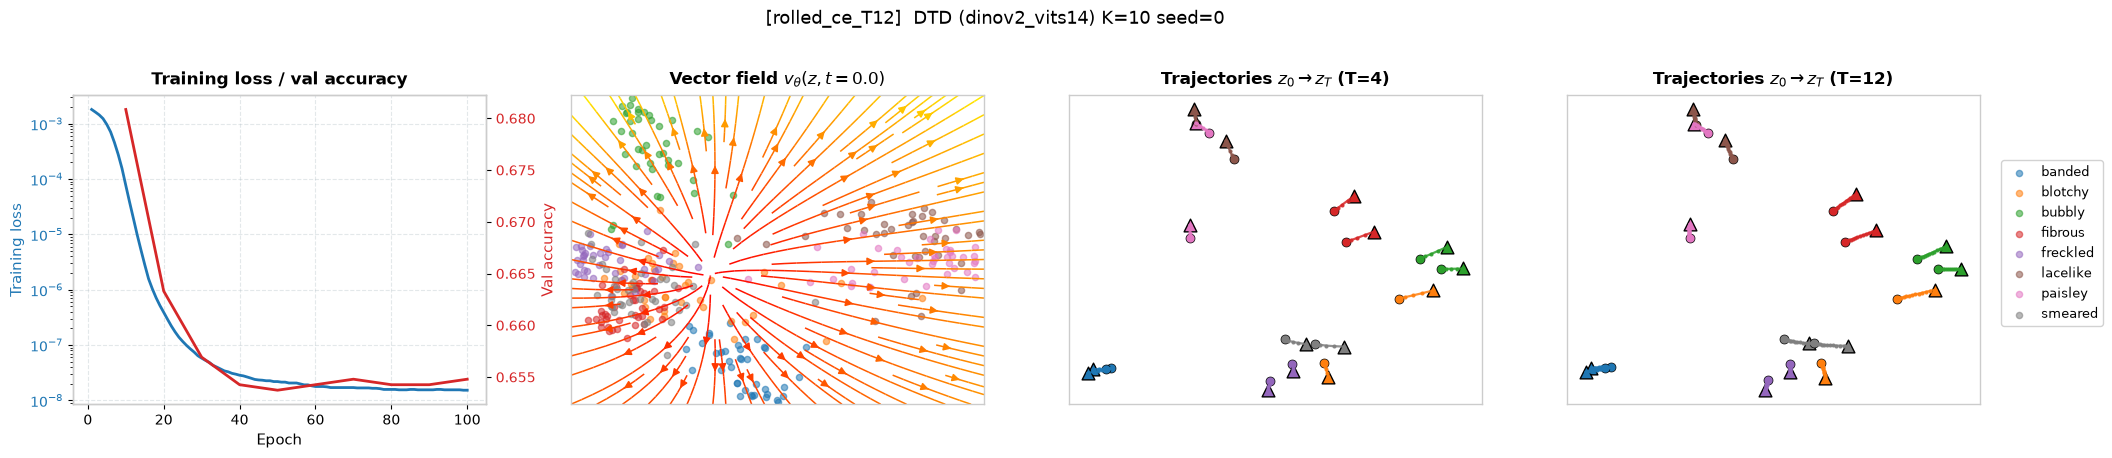
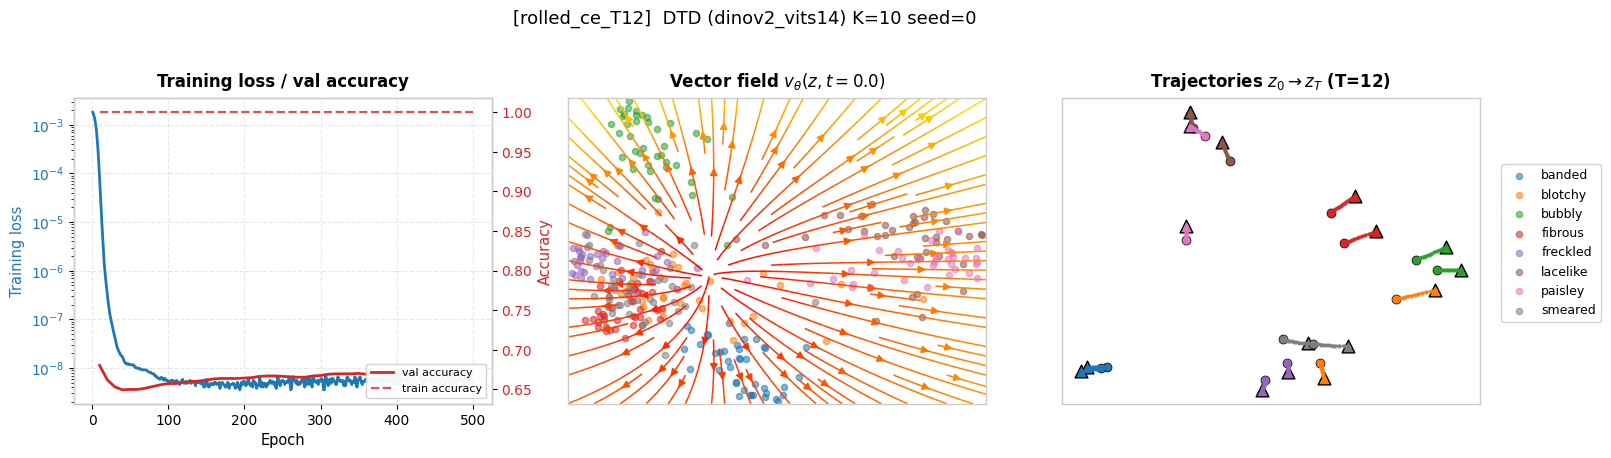
bug fixes and update notebook after first run

diff --git a/src/fmlayer/train/diagnostics.py b/src/fmlayer/train/diagnostics.py
@@ -1,11 +1,16 @@
+import math
 from pathlib import Path
 
 import pandas as pd
 import torch
 from torch import Tensor, nn
 
+from src.fmlayer.data.fewshot import load_train_subset
+from src.fmlayer.data.specs import get_spec
+from src.fmlayer.encoders.base import default_device
 from src.fmlayer.features.cache import load_split
 from src.fmlayer.models.flow_ode import transport
+from src.fmlayer.train.probes import get_probe
 from src.fmlayer.train.train_linear import to_tensors
 
 EPSILON = 1e-8
@@ -119,3 +124,117 @@ def print_diagnostics(frame: pd.DataFrame) -> None:
         "flip%  = share of items whose predicted label changed\n"
         "fixed  = wrong -> right,  broken = right -> wrong"
     )
+
+
+def signal_diagnostics(
+    encoder: str,
+    dataset: str,
+    k: int | str = 10,
+    seed: int = 0,
+    noise_levels: tuple[float, ...] = (0.0, 0.15, 0.3, 0.5, 1.0),
+    target_lr: float = 0.1,
+    feature_root: Path | None = None,
+    subset_root: Path | None = None,
+    results_root: Path | None = None,
+    device: torch.device | None = None,
+) -> pd.DataFrame:
+    """Measure how much training signal the frozen classifier can actually supply.
+
+    Both Stage 3 strategies derive everything they learn from the gradient of the
+    classification loss with respect to the features. If the frozen probe has memorised its
+    K-shot training subset, that gradient is ~0 on exactly the points the flow trains on,
+    and a field initialised at the identity has nothing to move towards. This quantifies
+    that, on clean sources and on increasingly perturbed ones.
+
+    Args:
+        encoder: Encoder key.
+        dataset: Dataset key.
+        k: Shots per class, or ``"full"``.
+        seed: Run seed.
+        noise_levels: Source perturbations to probe, as fractions of the mean feature norm.
+        target_lr: The guided step size, used to report how far a target would actually move.
+        feature_root: Feature cache directory.
+        subset_root: Subset index directory.
+        results_root: Results directory holding the probe cache.
+        device: Device to compute on.
+
+    Returns:
+        One row per noise level: accuracy and loss of the probe on the sources, the mean
+        per-sample gradient norm, and the relative displacement one guided step would make.
+    """
+    device = device if device is not None else default_device()
+    num_classes = get_spec(dataset).num_classes
+
+    train_features, train_labels, _ = load_train_subset(
+        encoder, dataset, k, seed, feature_root, subset_root
+    )
+    val_features, val_labels, _ = load_split(encoder, dataset, "val", feature_root)
+    train_x, train_y = to_tensors(train_features, train_labels, device)
+    val_x, val_y = to_tensors(val_features, val_labels, device)
+
+    probe = get_probe(
+        encoder, dataset, k, seed, train_x, train_y, val_x, val_y,
+        num_classes, device, results_root,
+    )
+    probe.eval()
+
+    mean_norm = train_x.norm(p=2, dim=1).mean()
+    generator = torch.Generator(device="cpu").manual_seed(seed)
+    rows = []
+
+    for sigma in noise_levels:
+        source = train_x
+        if sigma > 0:
+            noise = torch.randn(train_x.shape, generator=generator).to(device)
+            source = train_x + noise * (sigma * mean_norm / math.sqrt(train_x.shape[1]))
+
+        source = source.detach().requires_grad_(True)
+        logits = probe(source)
+        # Summed, so each row of the gradient is that sample's own dCE_i/dz_i.
+        loss = nn.functional.cross_entropy(logits, train_y, reduction="sum")
+        gradient = torch.autograd.grad(loss, source)[0]
+
+        with torch.no_grad():
+            correct = (logits.argmax(dim=1) == train_y).float().mean()
+            per_sample_loss = loss / len(train_y)
+            gradient_norm = gradient.norm(dim=1)
+            step_fraction = target_lr * gradient_norm / source.norm(dim=1).clamp_min(EPSILON)
+
+        rows.append(
+            {
+                "encoder": encoder,
+                "dataset": dataset,
+                "k": str(k),
+                "seed": seed,
+                "noise_std": sigma,
+                "train_accuracy": float(correct),
+                "train_ce": float(per_sample_loss),
+                "grad_norm": float(gradient_norm.mean()),
+                "guided_step_frac": float(step_fraction.mean()),
+            }
+        )
+
+    return pd.DataFrame(rows)
+
+
+def print_signal_diagnostics(frame: pd.DataFrame) -> None:
+    """Print :func:`signal_diagnostics` in a readable fixed-width layout."""
+    print(
+        f"{'cell':<28} {'noise':>6} {'train acc':>10} {'train CE':>10} "
+        f"{'|grad|':>10} {'step/|z|':>10}"
+    )
+    print("-" * 78)
+    for _, row in frame.iterrows():
+        cell = f"{row['dataset']}/{row['encoder']}"
+        print(
+            f"{cell:<28} {row['noise_std']:>6.2f} {row['train_accuracy']:>10.4f} "
+            f"{row['train_ce']:>10.2e} {row['grad_norm']:>10.2e} "
+            f"{row['guided_step_frac']:>10.2e}"
+        )
+    print(
+        "\ntrain acc = frozen probe on the sources the flow trains from\n"
+        "train CE  = its cross-entropy there; ~0 means the loss is saturated\n"
+        "|grad|    = mean ||dCE_i/dz_i||, the only signal either strategy receives\n"
+        "step/|z|  = relative distance one guided target step would move a feature"
+    )
+

diff --git a/src/fmlayer/train/train_fm.py b/src/fmlayer/train/train_fm.py
@@ -236,6 +236,38 @@ def guided_ablation_configs(train_steps: int = MAIN_STEPS) -> tuple[FlowConfig, 
     )
 
 
+def saturation_escape_configs(train_steps: int = MAIN_STEPS) -> tuple[FlowConfig, ...]:
+    """Variants built to survive a probe that has memorised its K-shot training subset.
+
+    Both strategies in the brief read the same signal: the gradient of the classification
+    loss at the training features. When the probe is already perfect there, that gradient
+    vanishes and the flow stays at its identity initialisation. Each entry below removes
+    that dependency in a different way — by constraining the step so it cannot vanish, by
+    perturbing the sources until the probe is genuinely wrong on them, or by using a
+    geometric target that never reads the gradient at all.
+    """
+    return (
+        # Constrained guided steps: the target moves a fixed fraction of the feature norm,
+        # whatever the gradient magnitude.
+        FlowConfig(STANDARD, GUIDED, train_steps, target_lr=0.05, target_normalize=True),
+        FlowConfig(STANDARD, GUIDED, train_steps, target_lr=0.15, target_normalize=True),
+        FlowConfig(STANDARD, GUIDED, train_steps, target_lr=0.3, target_normalize=True),
+        # Sources perturbed hard enough that the probe actually makes mistakes on them.
+        FlowConfig(
+            STANDARD, GUIDED, train_steps,
+            noise_std=0.5, target_lr=0.15, target_normalize=True,
+        ),
+        FlowConfig(ROLLED_CE, NO_TARGET, train_steps, noise_std=0.5),
+        FlowConfig(ROLLED_CE, NO_TARGET, train_steps, noise_std=1.0),
+        # Geometric targets, which never read the saturated gradient. The probe-weight
+        # family was the only one that beat the baseline in the Stage 3 screening.
+        FlowConfig(STANDARD, PROBE_WEIGHTS, train_steps, noise_std=0.15),
+        FlowConfig(ROLLED_MSE, PROBE_WEIGHTS, train_steps),
+        FlowConfig(STANDARD, MARGIN, train_steps, noise_std=0.15),
+        FlowConfig(ROLLED_MSE, MARGIN, train_steps),
+    )
+
+
 def default_configs(step_counts: tuple[int, ...] = STEP_COUNTS) -> tuple[FlowConfig, ...]:
     """The eight configurations the full grid runs.
 

diff --git a/src/fmlayer/train/checks.py b/src/fmlayer/train/checks.py
@@ -23,6 +23,7 @@ from src.fmlayer.train.train_fm import (
     guided_ablation_configs,
     main_configs,
     rolled_regularization_configs,
+    saturation_escape_configs,
 )
 
 TOLERANCE = 1e-4
@@ -164,6 +165,14 @@ def check_guided_targets(device: torch.device) -> None:
     )
     moved = (constrained - features).norm(dim=1) / features.norm(dim=1)
     assert torch.allclose(moved, torch.full_like(moved, fraction), atol=1e-3), moved[:4]
+
+    # The step must be the sample's own gradient, not the batch mean: splitting the batch
+    # must not change any target. With mean reduction this is off by the batch size.
+    half = len(features) // 2
+    first = guided_targets(field, features[:half], labels[:half], bank, None, 12, 1, 0.1)
+    second = guided_targets(field, features[half:], labels[half:], bank, None, 12, 1, 0.1)
+    whole = guided_targets(field, features, labels, bank, None, 12, 1, 0.1)
+    assert torch.allclose(torch.cat([first, second]), whole, atol=TOLERANCE)
     print("  guided targets        OK")
 
 
@@ -206,7 +215,11 @@ def check_probe_clone(device: torch.device) -> None:
 def check_config_tags(device: torch.device) -> None:
     """Distinct configurations must get distinct tags, since the tag is the cache key."""
     configs = (
-        all_configs() + main_configs() + guided_ablation_configs() + rolled_regularization_configs()
+        all_configs()
+        + main_configs()
+        + guided_ablation_configs()
+        + rolled_regularization_configs()
+        + saturation_escape_configs()
     )
     names: dict[str, FlowConfig] = {}
     for config in configs:

diff --git a/src/fmlayer/models/targets.py b/src/fmlayer/models/targets.py
@@ -129,7 +129,13 @@ def guided_targets(
     with torch.enable_grad():
         for _ in range(target_steps):
             target = target.detach().requires_grad_(True)
-            loss = nn.functional.cross_entropy(bank.logits(target, folds), labels)
+            # Sum, not mean: with mean reduction each sample's gradient is divided by the
+            # batch size, so the step would be ~256x smaller than target_lr says and would
+            # change meaning whenever the batch size changed. Summing gives every sample
+            # its own dCE_i/dz_i at full scale.
+            loss = nn.functional.cross_entropy(
+                bank.logits(target, folds), labels, reduction="sum"
+            )
             gradient = torch.autograd.grad(loss, target)[0]
             if normalize:
                 direction = gradient / gradient.norm(dim=1, keepdim=True).clamp_min(EPSILON)
